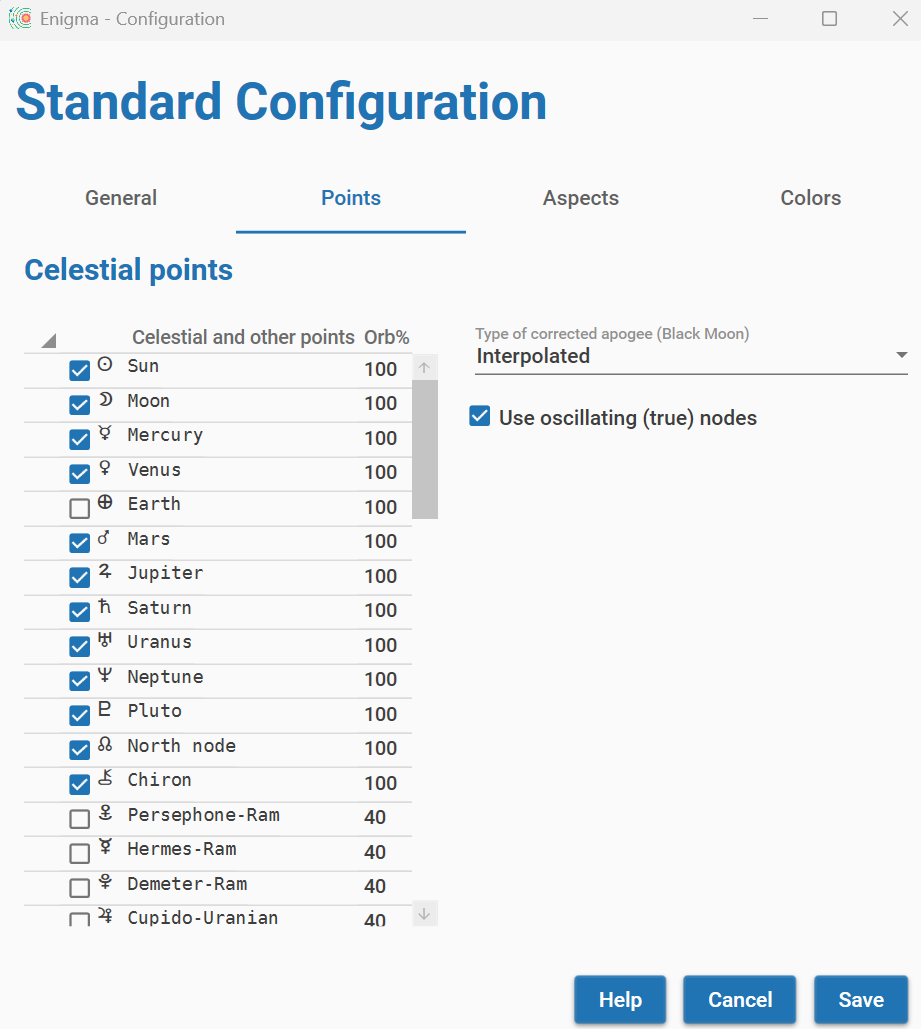
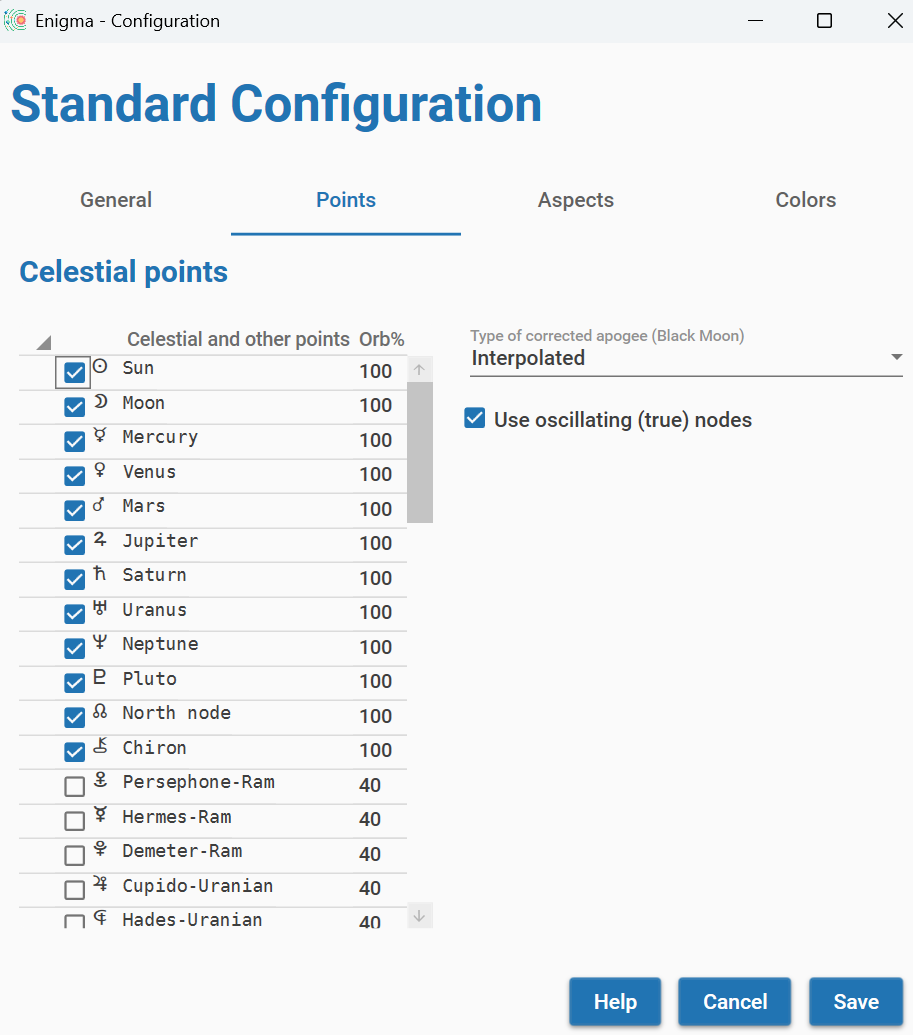
Update user manual and release notes. Fix showing earth in initial config.

diff --git a/Enigma/Enigma.Frontend/Models/ConfigurationModel.cs b/Enigma/Enigma.Frontend/Models/ConfigurationModel.cs
@@ -134,7 +134,7 @@ public class ConfigurationModel
         
         var points = (from point in PointsExtensions.AllDetails() 
                 from configPoint in config.ChartPoints 
-                where configPoint.Key == point.Point 
+                where configPoint.Key == point.Point && configPoint.Key != ChartPoints.Earth
                 select new GeneralPoint(point.Point, configPoint.Value.IsUsed, configPoint.Value.Glyph, point.Text, 
                     configPoint.Value.PercentageOrb, configPoint.Value.ShowInChart)).ToList();
                     

diff --git a/Enigma/docs/md/Release-Notes/Release-notes.md b/Enigma/docs/md/Release-Notes/Release-notes.md
@@ -4,9 +4,9 @@
 
 
 
-## Release 0.7.0 beta - August 1, 2025
+## Release 0.7.0 beta - August 6, 2025
 
-Zodiac divisions, Enneagram and solar.
+Zodiac divisions, solar returns and solar.
 
 ### Zodiac divisions
 
@@ -22,15 +22,19 @@ Calculation of a solar. Enigma supports relocation and the use of a sidereal ret
 
 ### Enneagram
 
-Calculation of the relative strengths of the 9 Enneagram types, based on positions in the chart. Supports two versions, including the '2012' version that has not yet been published.
+Calculation of the relative strengths of the 9 Enneagram types, using on positions in the chart. The underlying theory is from the dutch researcher Sjoerd Visser. Enneargram supports two versions, including the '2012' version that has not yet been published.
 
 ### Export figures to an image on disk
 
-You can now export all figures to an image in PNG format to disk. You can use this image in your word processor, website of just print it. This functionality is available for the chart whee, the declination diagram, the declination strip and the Enneagram. 
+You can now export all figures to an image in PNG format to disk. You can use this image in your word processor, website of just print it. This functionality is available for the chart wheel (including the solar), the declination diagram, the declination strip and the Enneagram. 
 
 ### Coordinates and time zone offset can be edited
 
 Enigma automatically calculates the coordinates and the time zone offset. You can now override these values. 
+
+### Regions for cities are shown
+
+If you select a city when entering a chart (or an event), the region is automatically shown. This comes in handy if a country has multiple cities with the same name.
 
 ### Background colors for signs based on elements
 
@@ -39,6 +43,10 @@ The zodiac signs in the chart wheel are shown with a color, based on the element
 ### Fix: take time into account for events
 
 The time is not taken into account when defining an event for transits, secondary directions or symbolic directions.
+
+### Fix: earth is disabled (for now)
+
+In previous versions, you could select the earth in the configuration. this was premature as Enigma does not yet support heliocentric charts, so the earth has been temporarily removed.
 
 
 
